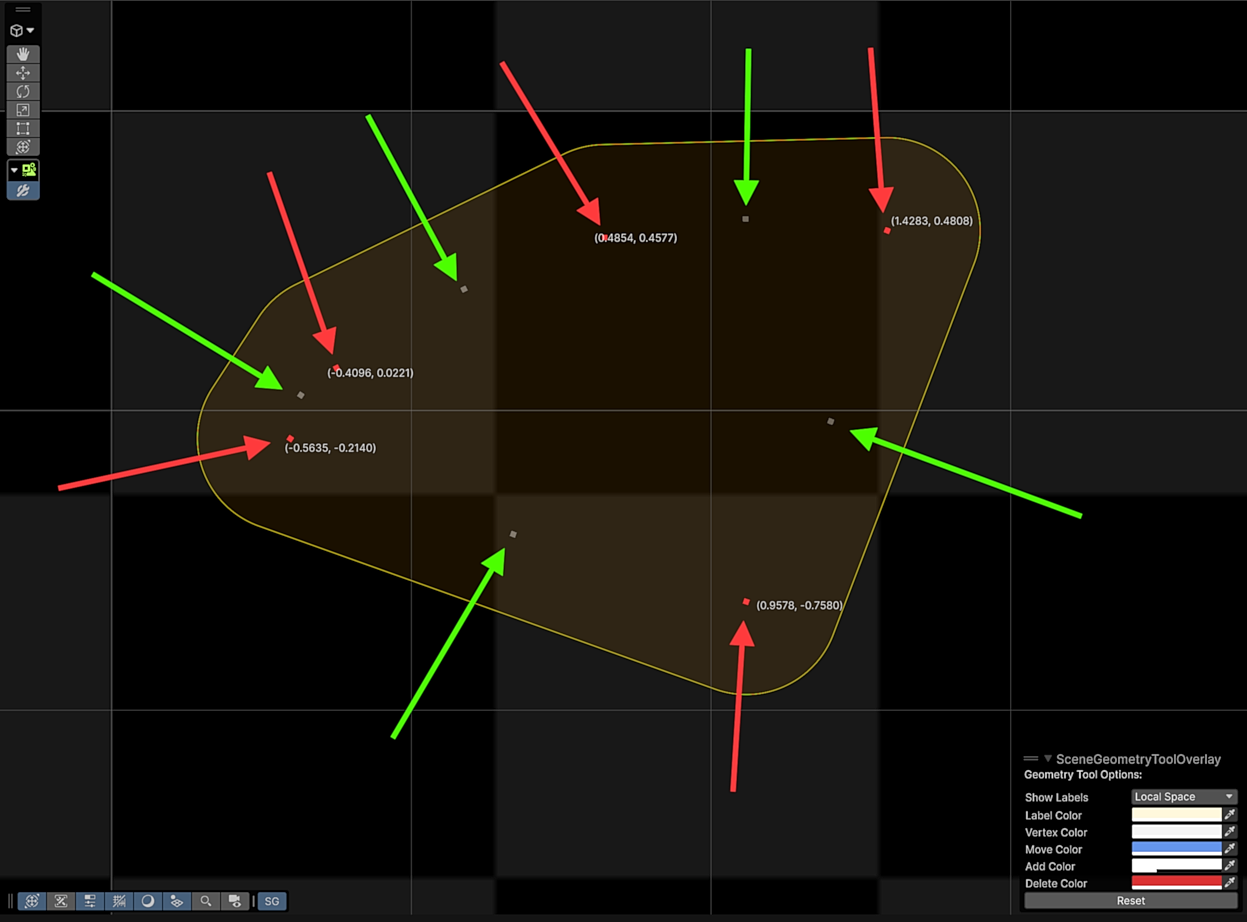
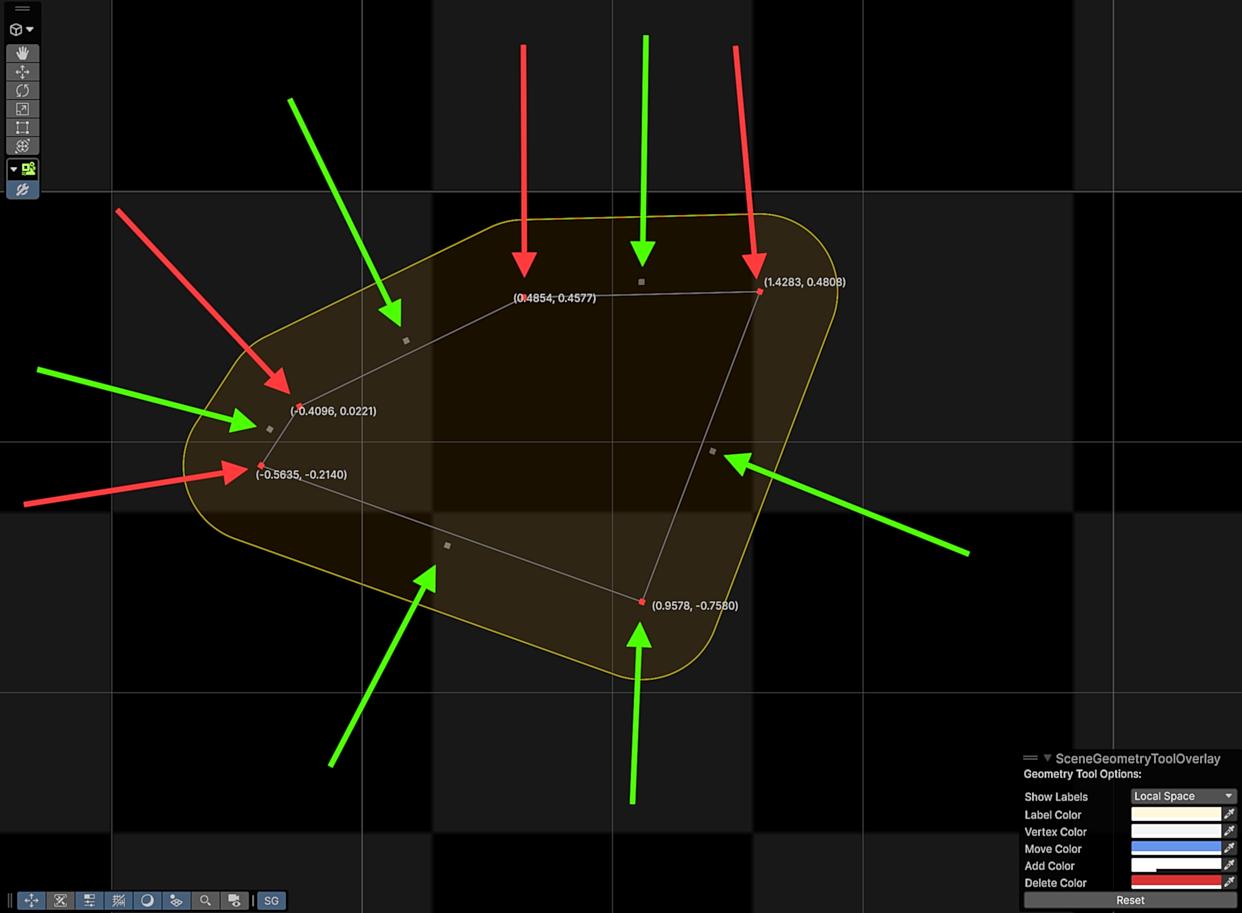
The PolygonGeometry tooling now draws the interior (non-radius) vertices as a line-loop.

diff --git a/LowLevel/Packages/com.unity.2d.physics.lowlevelextras/Editor/Tools/PolygonShapeGeometryTool.cs b/LowLevel/Packages/com.unity.2d.physics.lowlevelextras/Editor/Tools/PolygonShapeGeometryTool.cs
@@ -1,4 +1,5 @@
-using UnityEngine;
+using System;
+using UnityEngine;
 using UnityEngine.LowLevelPhysics2D;
 using UnityEngine.U2D.Physics.LowLevelExtras;
 
@@ -22,7 +23,7 @@ namespace UnityEditor.U2D.Physics.LowLevelExtras
             {
             }
 
-            public override void OnToolGUI(EditorWindow window)
+            public override unsafe void OnToolGUI(EditorWindow window)
             {
                 // Get the shape geometry. 
                 var geometry = Shape.polygonGeometry;
@@ -293,6 +294,14 @@ namespace UnityEditor.U2D.Physics.LowLevelExtras
                 // Draw the geometry.
                 World.SetElementDepth3D(PhysicsMath.ToPosition3D(Body.transform.TransformPoint(geometry.centroid), ShapeTarget.transform.position, TransformPlane));
                 World.DrawGeometry(geometry, Body.transform, drawGeometryColor, 0.0f, drawGeometryFilled ? PhysicsWorld.DrawFillOptions.All : PhysicsWorld.DrawFillOptions.Outline);
+
+                // Draw the geometry vertices as a looped line-strip (if there's a radius).
+                if (geometry.radius > 0f)
+                {
+                    ref var spanVertices = ref geometry.vertices[0];
+                    fixed (Vector2* pVertex = &spanVertices)
+                        World.DrawLineStrip(Body.transform, new ReadOnlySpan<Vector2>(pVertex, geometry.count), true, Color.gray);
+                }
             }
         }
     }

diff --git a/LowLevel/Projects/Primer/Assets/Examples/README.md b/LowLevel/Projects/Primer/Assets/Examples/README.md
@@ -1,7 +1,7 @@
 # Physics 2D LowLevel "Primer" Examples
 
 The following examples are provided to give a good start in understanding some of the more important features provided by the low-level Physics API and the "extras" test package provided.
-Below will adds any extra detail not covered in the examples themselves.
+Below will add any extra detail not covered in the examples themselves.
 
 Each example has at least a single "Example" GameObject with an example script which you should examine to understand how the example works.
 The scripts contain short annotation-style comments where appropriate to highlight the functionality.
@@ -14,7 +14,7 @@ This example demonstrates creating and destroying a `PhysicsWorld` which is comp
 
 ---
 ## 02 - Use Default Physics World
-Whilst it is powerful to be able to create your own isolated `PhysicsWorld`, it is more common to use a single `PhysicsWorld` which is why Unity automaticaly creates one for you.
+Whilst it is powerful to be able to create your own isolated `PhysicsWorld`, it is more common to use a single `PhysicsWorld` which is why Unity automatically creates one for you.
 This example shows you how you access the default world.
 
 ---
@@ -154,7 +154,7 @@ The result of this is that the `SceneBody` is created in the `PhysicsWorld` the 
 
 This means you can have multiple worlds and multiple objects within those worlds in a single Unity scene if you wish.
 Whilst the `SceneBody` is connected to the `SceneWorld`, you can configure the `SceneWorld` to simply represent the default world by enabling its "Use Default World" checkbox.
-Multiple `SceneWorld` using the default world all represent the same default world that Unity implicitly createds.
+Multiple `SceneWorld` using the default world all represent the same default world that Unity implicitly created.
 Only with that option disabled does the `SceneWorld` create a `PhysicsWorld`.
 
 ---
